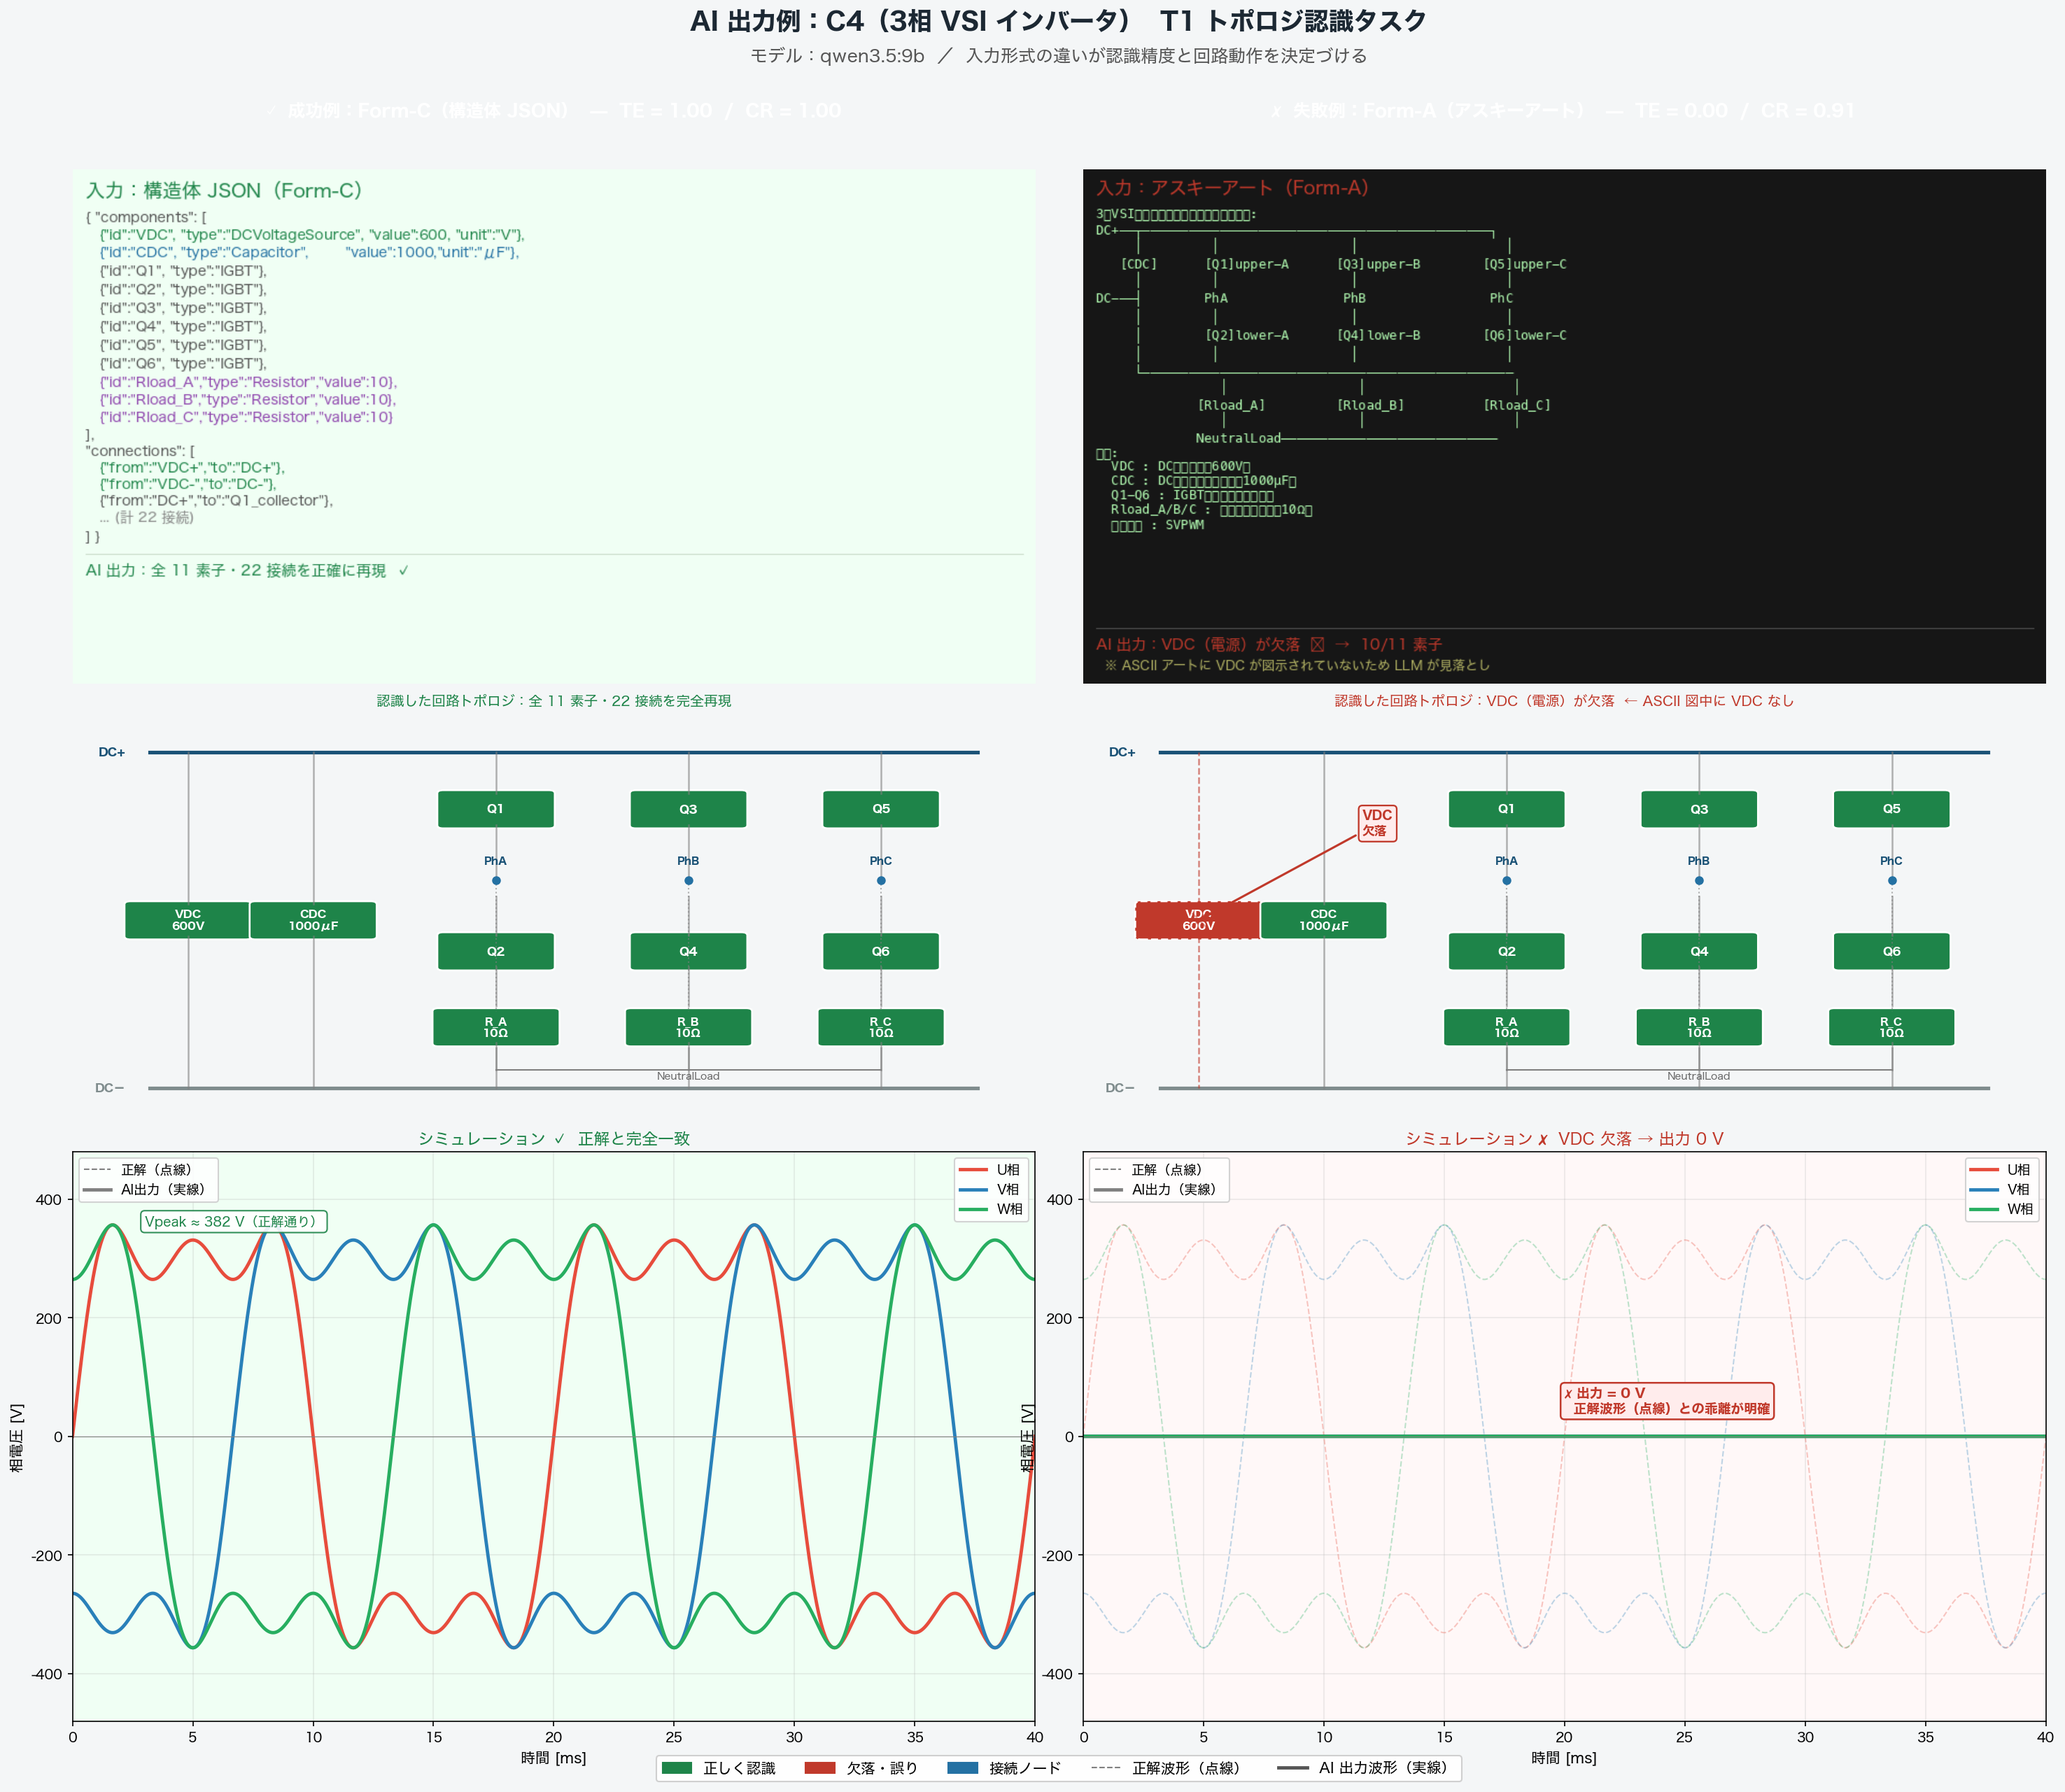
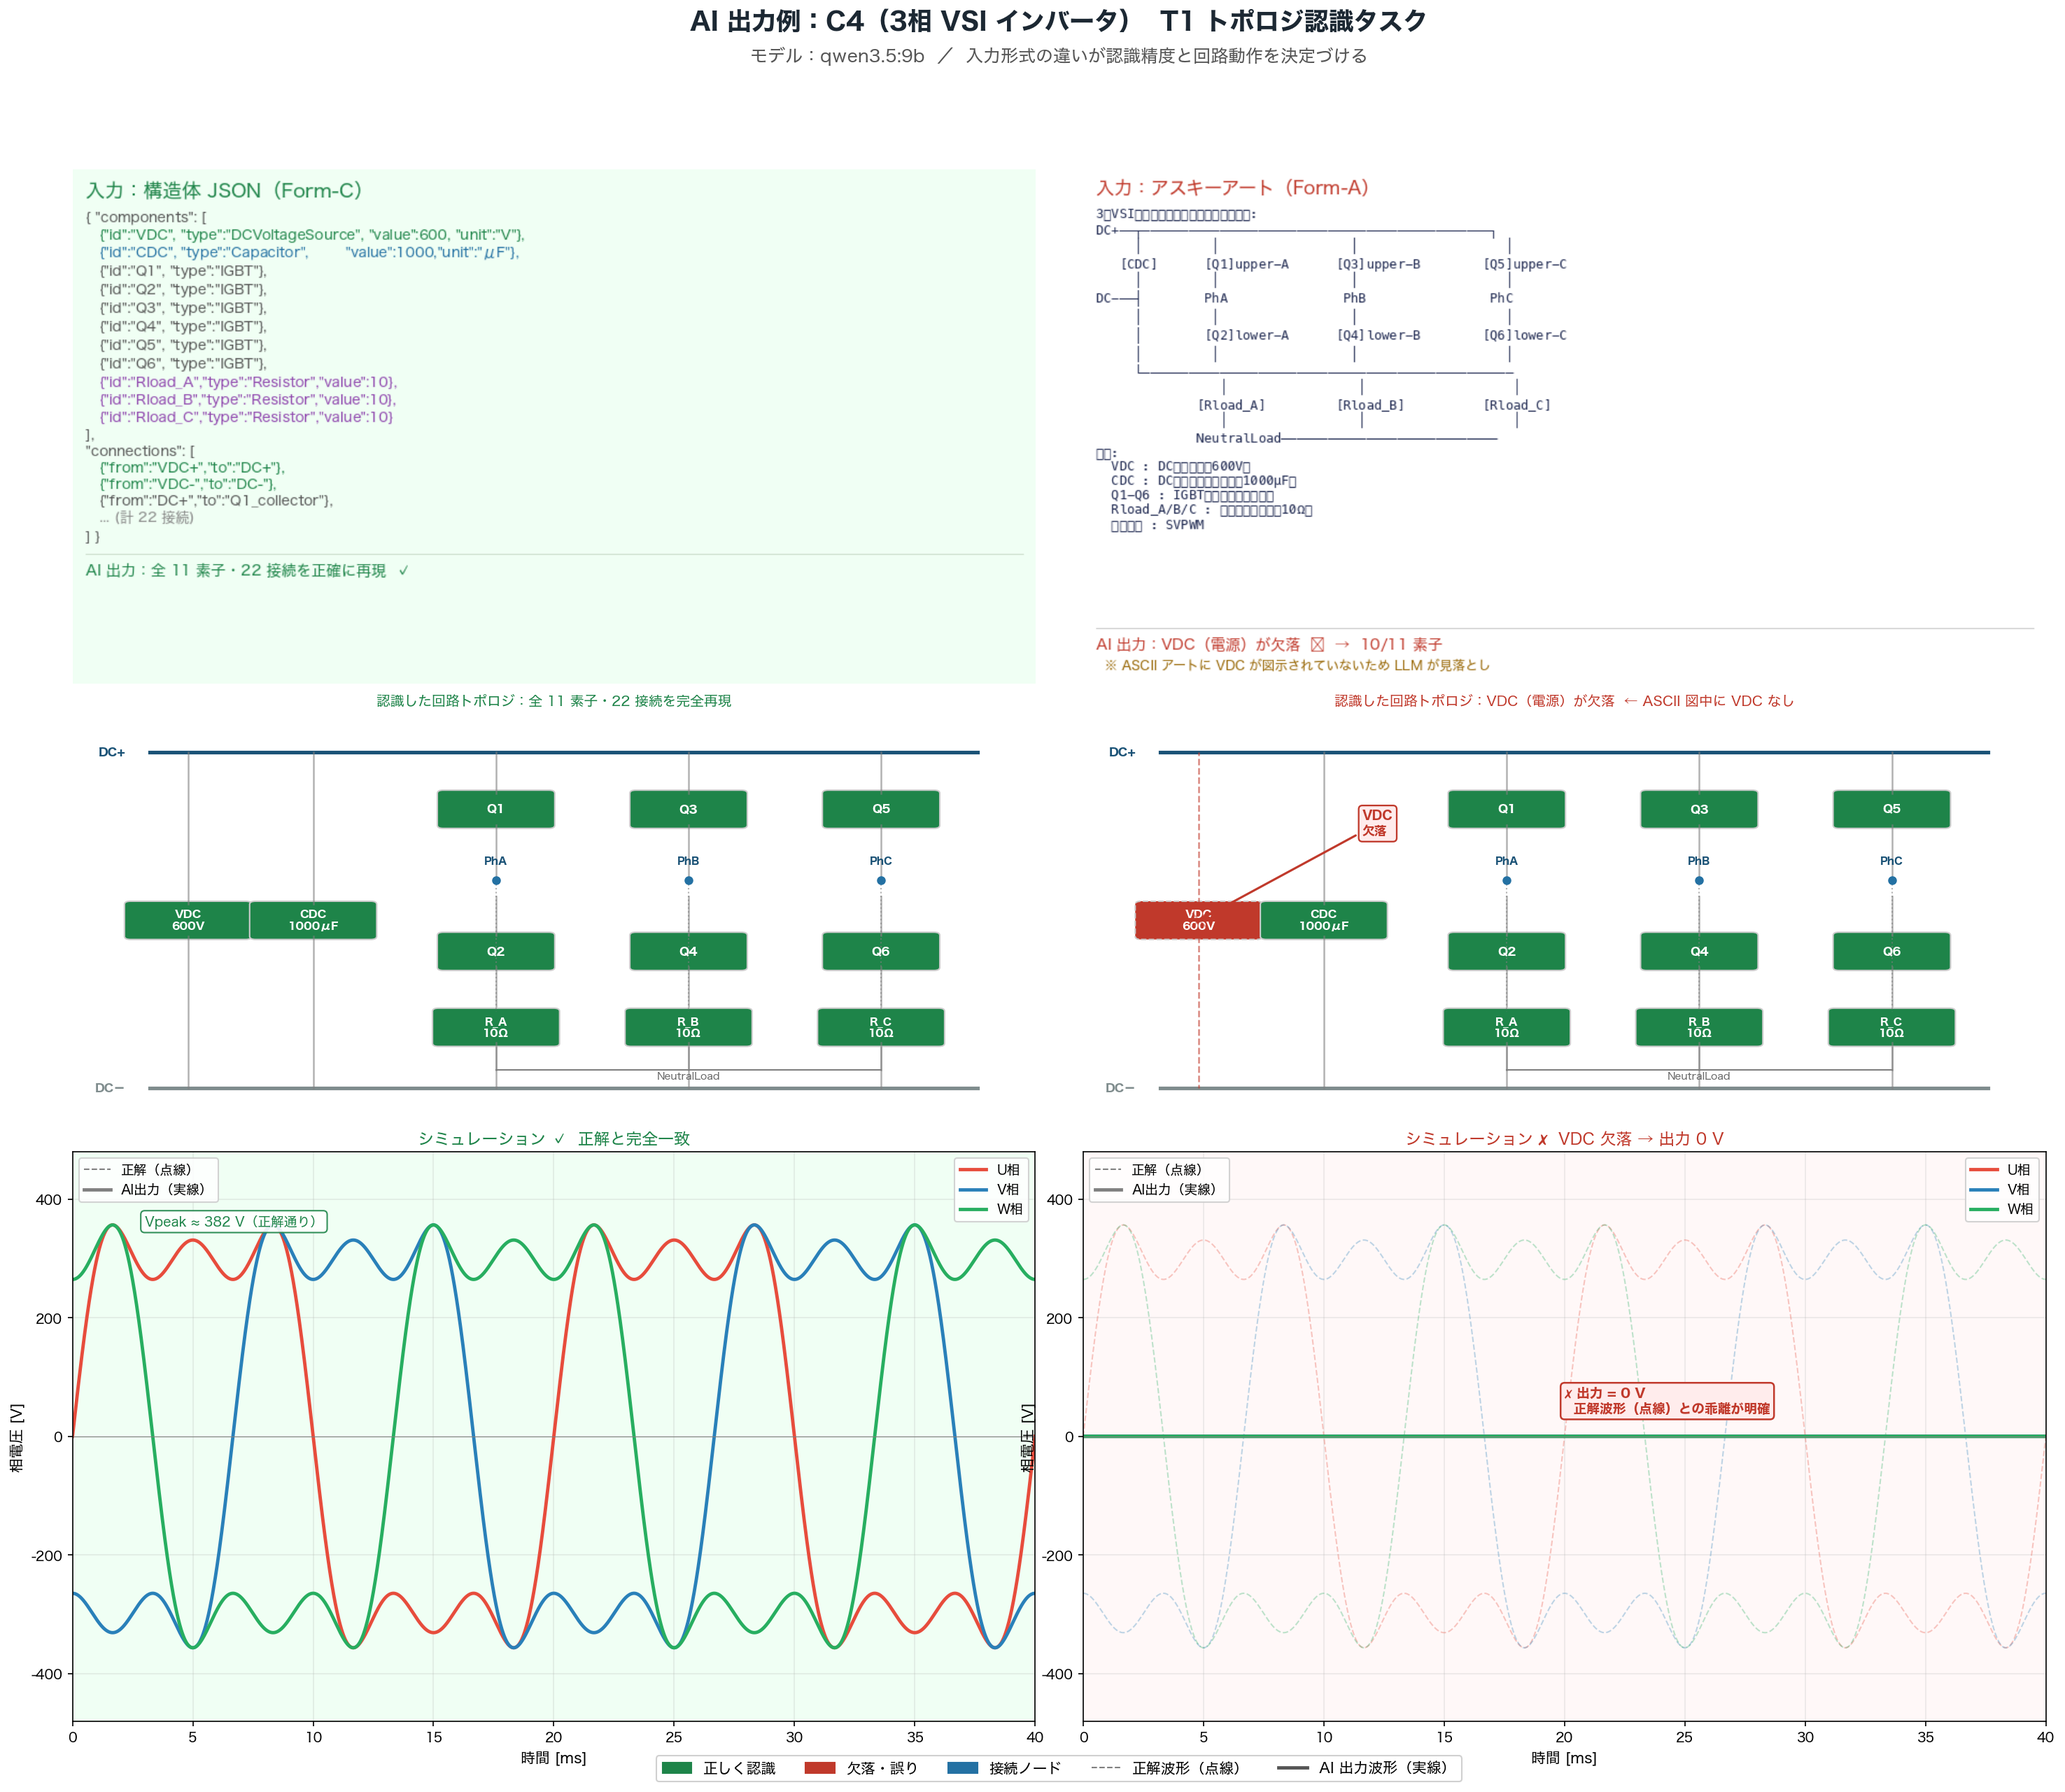
style: 全体を白ベースに統一
- ASCII artパネル: 黒背景→白背景、文字色を紺に変更（等幅Menloは維持）
- 図全体の背景: #F4F6F7→white
- 回路グラフのボックス枠: ec=white→#CCCCCC（白背景で枠が消えるのを修正）

Changed region(s): [[0.4988, 0.0937, 0.9976, 0.4061]]

diff --git a/04_実験スクリプト/draw_ai_output_examples.py b/04_実験スクリプト/draw_ai_output_examples.py
@@ -119,8 +119,8 @@ def make_json_panel(W=900, H=520):
 
 
 def make_ascii_panel(ascii_text, W=900, H=520):
-    """Form-A: ダーク背景 + Menlo等幅フォント（ターミナル風）"""
-    img  = Image.new("RGB", (W, H), (22, 22, 22))   # ほぼ黒
+    """Form-A: 白背景 + Menlo等幅フォント（アスキーアート）"""
+    img  = Image.new("RGB", (W, H), (255, 255, 255))  # 白背景
     draw = ImageDraw.Draw(img)
     fh   = jp_font(17)
     fm_  = jp_font(14)
@@ -132,17 +132,17 @@ def make_ascii_panel(ascii_text, W=900, H=520):
               fill=_rgb(CMISS), font=fh)
     y += 26
 
-    # アスキーアート本体（Menlo）
+    # アスキーアート本体（Menlo・濃い文字色）
     lines = ascii_text.splitlines()
     for raw in lines:
-        draw.text((12, y), raw, fill=(180, 255, 180), font=fs_m)
+        draw.text((12, y), raw, fill=(30, 40, 80), font=fs_m)
         bb = draw.textbbox((12, y), raw, font=fs_m)
         y += (bb[3] - bb[1]) + 2
         if y > H - 60:
             break
 
     # 区切り線
-    draw.line([(12, H-54), (W-12, H-54)], fill=(80, 80, 80), width=1)
+    draw.line([(12, H-54), (W-12, H-54)], fill=(200, 200, 200), width=1)
 
     # AI出力サマリー（失敗）
     draw.text((12, H-46),
@@ -150,7 +150,7 @@ def make_ascii_panel(ascii_text, W=900, H=520):
               fill=_rgb(CMISS), font=fm_)
     draw.text((12, H-24),
               "  ※ ASCII アートに VDC が図示されていないため LLM が見落とし",
-              fill=(180, 180, 100), font=jp_font(12))
+              fill=(150, 100, 0), font=jp_font(12))
 
     return np.array(img)
 
@@ -166,7 +166,7 @@ def draw_topology(ax, missing_vdc):
         ax.add_patch(FancyBboxPatch(
             (x-w/2, y-h/2), w, h,
             boxstyle="round,pad=0.06",
-            fc=color, ec="white", lw=1.3, linestyle=ls))
+            fc=color, ec="#CCCCCC", lw=1.0, linestyle=ls))
         ax.text(x, y, lbl, ha="center", va="center",
                 fontsize=fs, color="white", fontweight="bold")
 
@@ -283,7 +283,7 @@ def main():
     img_ascii = make_ascii_panel(d["ascii_input"], W=900, H=500)
 
     fig = plt.figure(figsize=(20, 17))
-    fig.patch.set_facecolor("#F4F6F7")
+    fig.patch.set_facecolor("white")
 
     fig.text(0.5, 0.988,
              "AI 出力例：C4（3相 VSI インバータ）  T1 トポロジ認識タスク",
